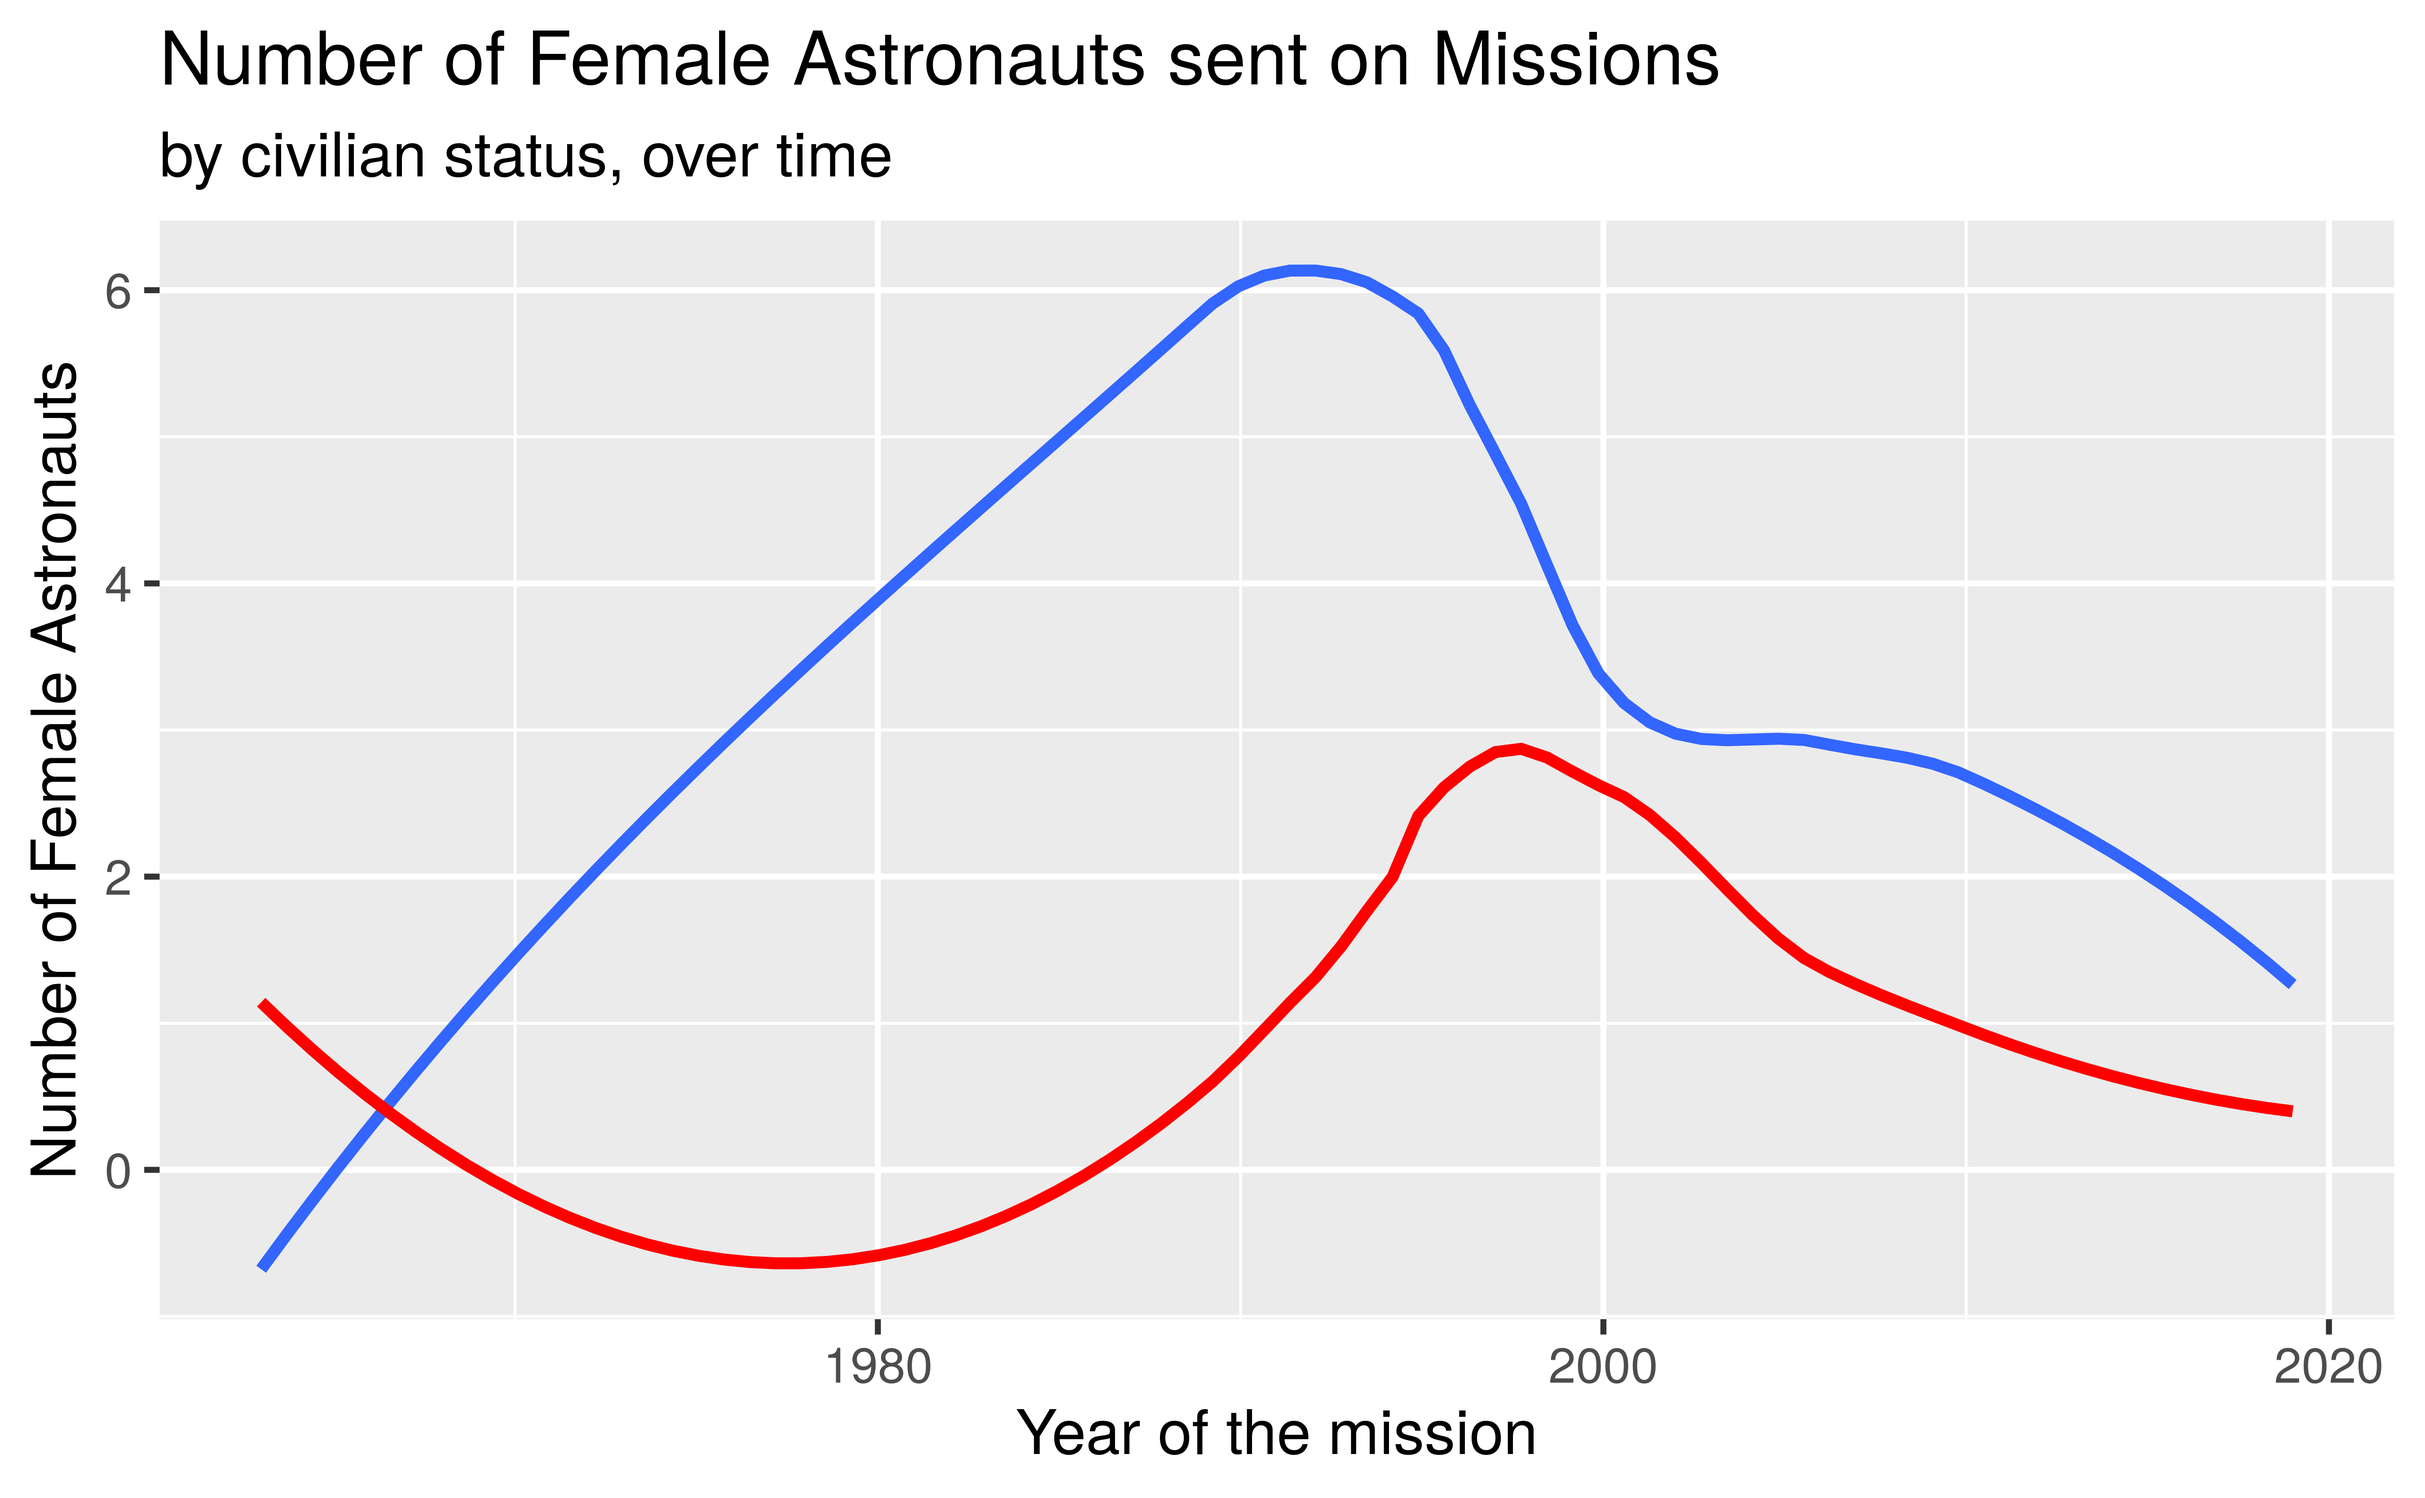
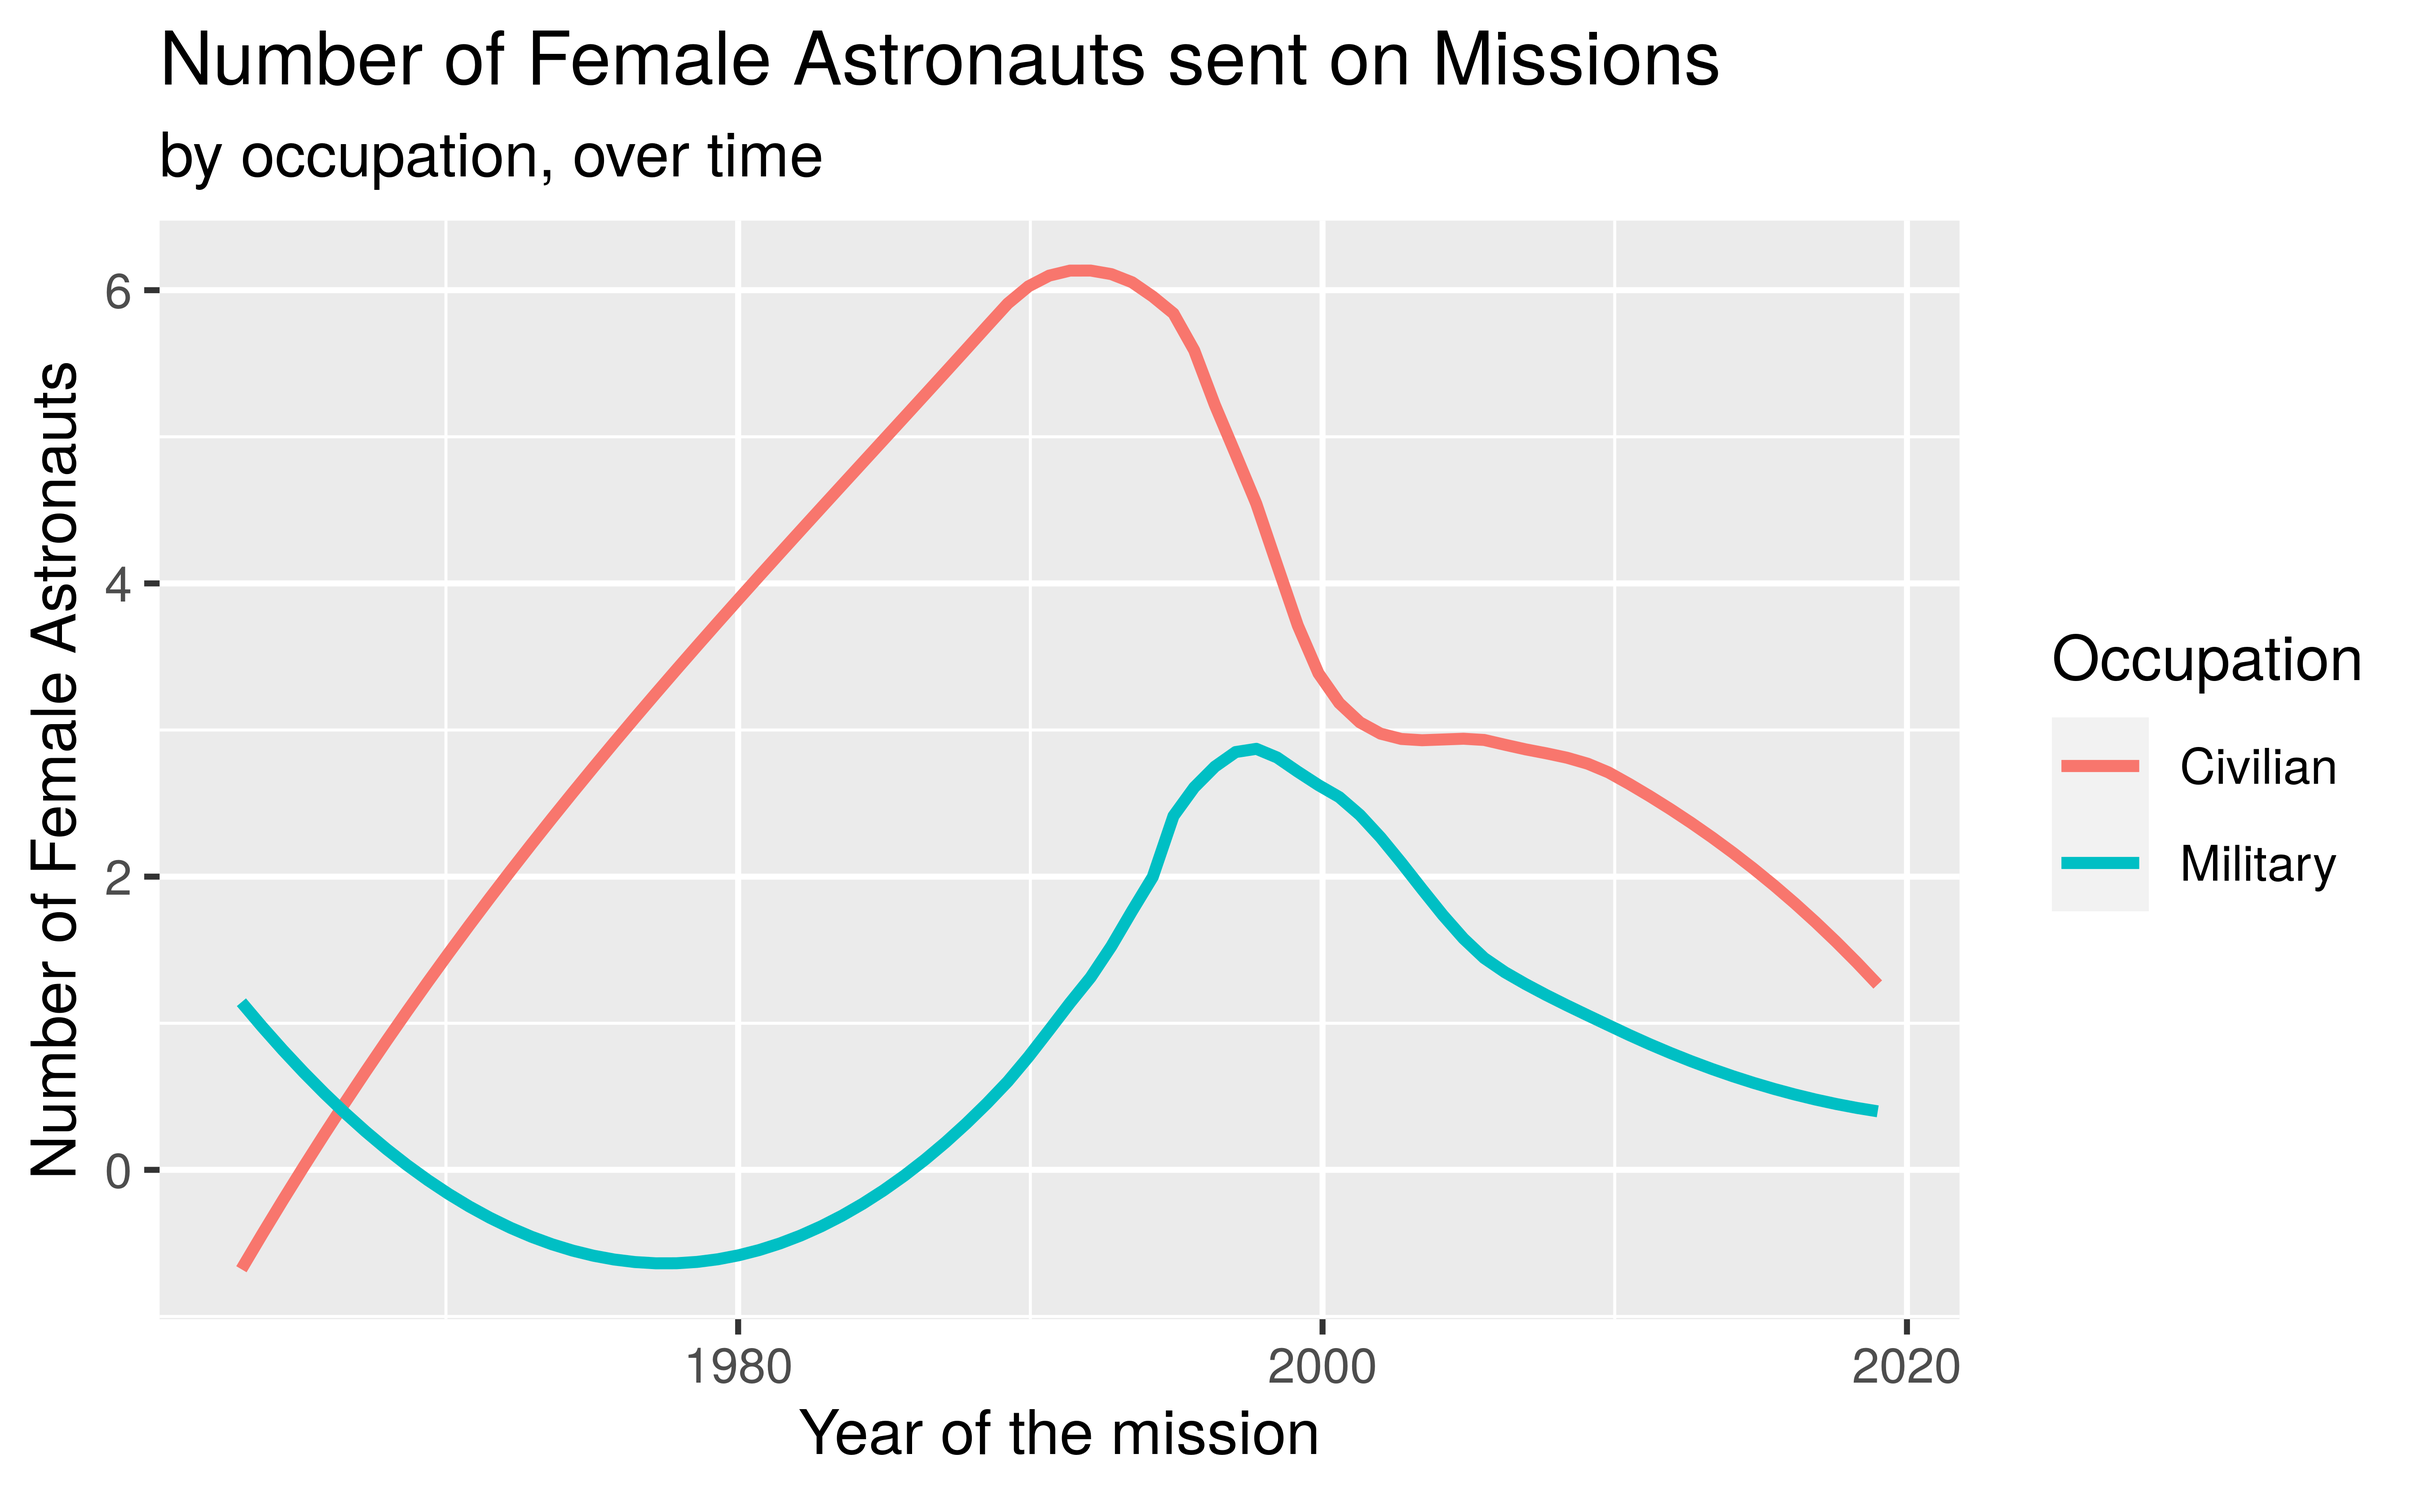
Occupation slide complete.

diff --git a/presentation/presentation.html b/presentation/presentation.html
@@ -4,7 +4,7 @@
     <title>Astronauts</title>
     <meta charset="utf-8" />
     <meta name="author" content="The Mousebreakers   Bence Kaszás, Tom Gourlay, Sophie Jones, Julia Schönthaler &amp; John Adibpour" />
-    <meta name="date" content="2020-11-29" />
+    <meta name="date" content="2020-11-30" />
     <link href="libs/remark-css-0.0.1/default.css" rel="stylesheet" />
     <link href="libs/remark-css-0.0.1/default-fonts.css" rel="stylesheet" />
   </head>
@@ -16,7 +16,7 @@ class: center, middle, inverse, title-slide
 ## An investigation into the role that gender plays within the outer-space workplace!
 ### The Mousebreakers <br> Bence Kaszás, Tom Gourlay, Sophie Jones, Julia Schönthaler &amp; John Adibpour
 ### University of Edinburgh
-### 2020-11-29
+### 2020-11-30
 
 ---
 
@@ -176,6 +176,7 @@ We researched and rearranged the military ranks inside the occupation variable b
 
 ]
 .pull-right[
+Order of Military ranking:
 &lt;table&gt;
  &lt;thead&gt;
   &lt;tr&gt;
@@ -207,25 +208,27 @@ We researched and rearranged the military ranks inside the occupation variable b
 
 
 ---
-.pull-left[
-- Analyse the role of sex in relationship to military status. Are females of Military Status more likely to become astronauts? Or are more civilian females enlisted?
-Adjusted R Squared Value? Is adding sex beneficial?
-- Investigation the effect of gender and occupation. What ranking do female astronauts hold? How has this changed? Are higher ranking females more likely to be enlisted as astronauts?
-]
-.pull-right[
-&lt;img src="presentation_files/figure-html/mil-civ-1.png" width="80%" /&gt;
-]
-.pull-right[
+#Occupation
 
-```
-## `geom_smooth()` using method = 'loess' and formula 'y ~ x'
-## `geom_smooth()` using method = 'loess' and formula 'y ~ x'
-```
+
+
+
+.pull-left[
+&lt;img src="presentation_files/figure-html/mil-civ-1.png" width="80%" /&gt;
 
 &lt;img src="presentation_files/figure-html/mil-civ-time-1.png" width="80%" /&gt;
 ]
 
+.pull-right[
+- A higher proportion of all the astronauts are in the military (~60%).
+- If we look at the genders of the astronauts separately, a much smaller proportion of women who were in space are in the military (~25%).
+- Looking at only the male astronauts, we can see that they have higher than average proportion of astronauts with military status (~64%) and fewer civilians.
 
+
+- While the number of civilian female astronauts has always been higher than the military affiliated ones, the difference between the two has been getting smaller.
+- Both curves have a peak around the late 90's and have been decreasing ever since, but this is due to the decrease in the overall number of missions.
+
+]
 ---
 class: inverse, center, middle
 
